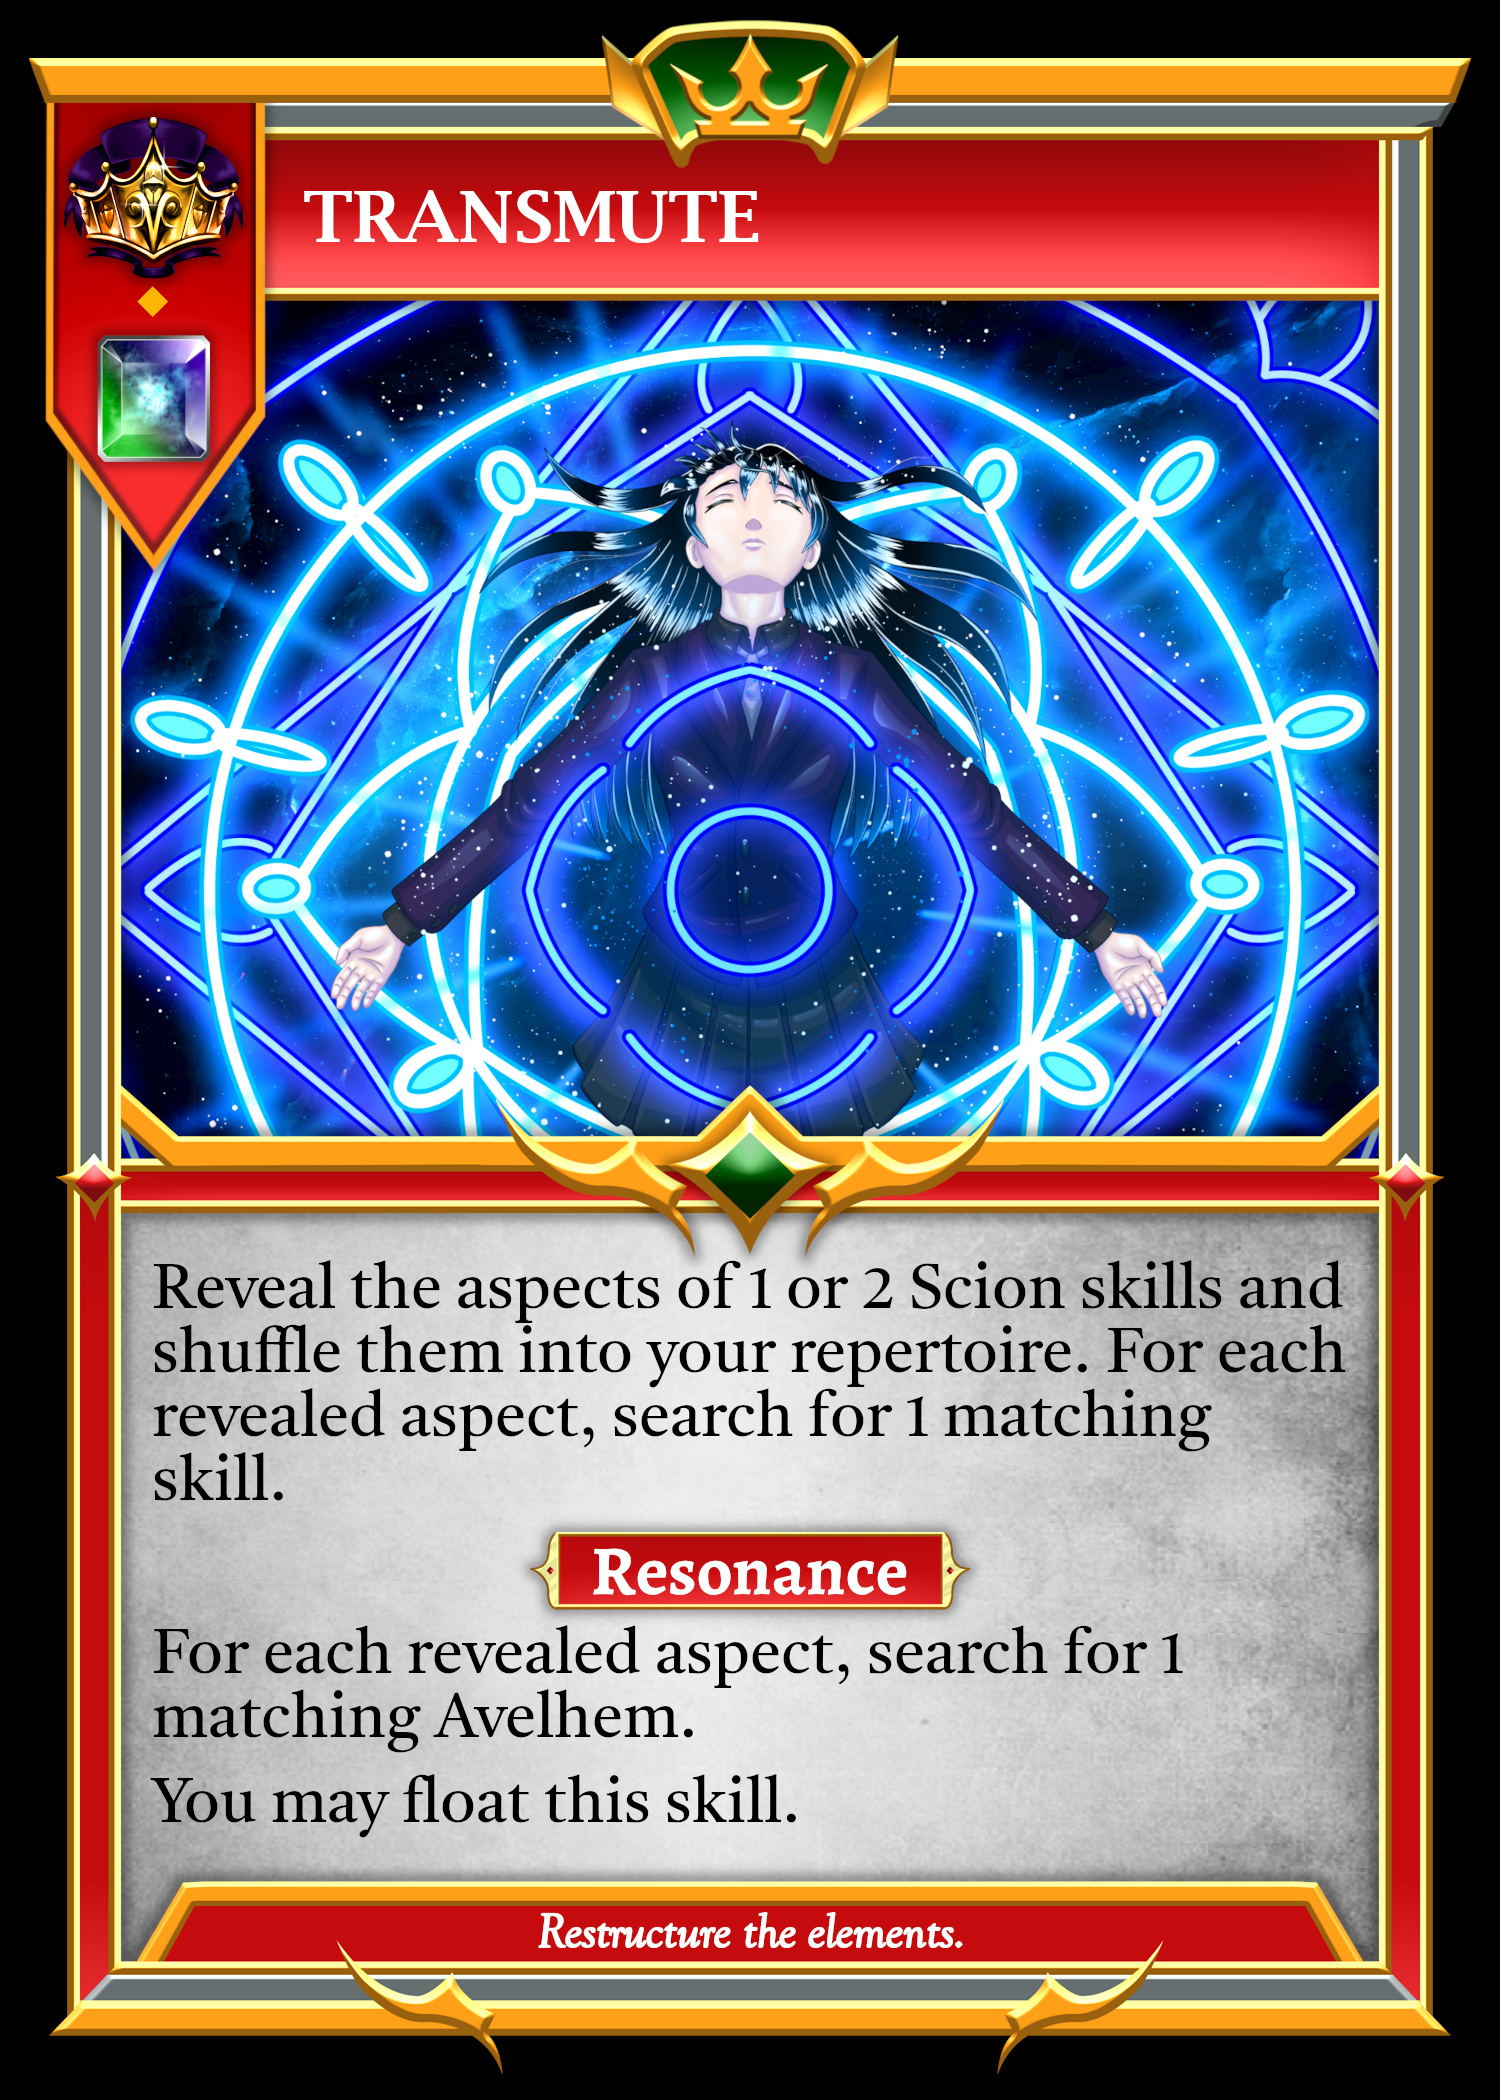
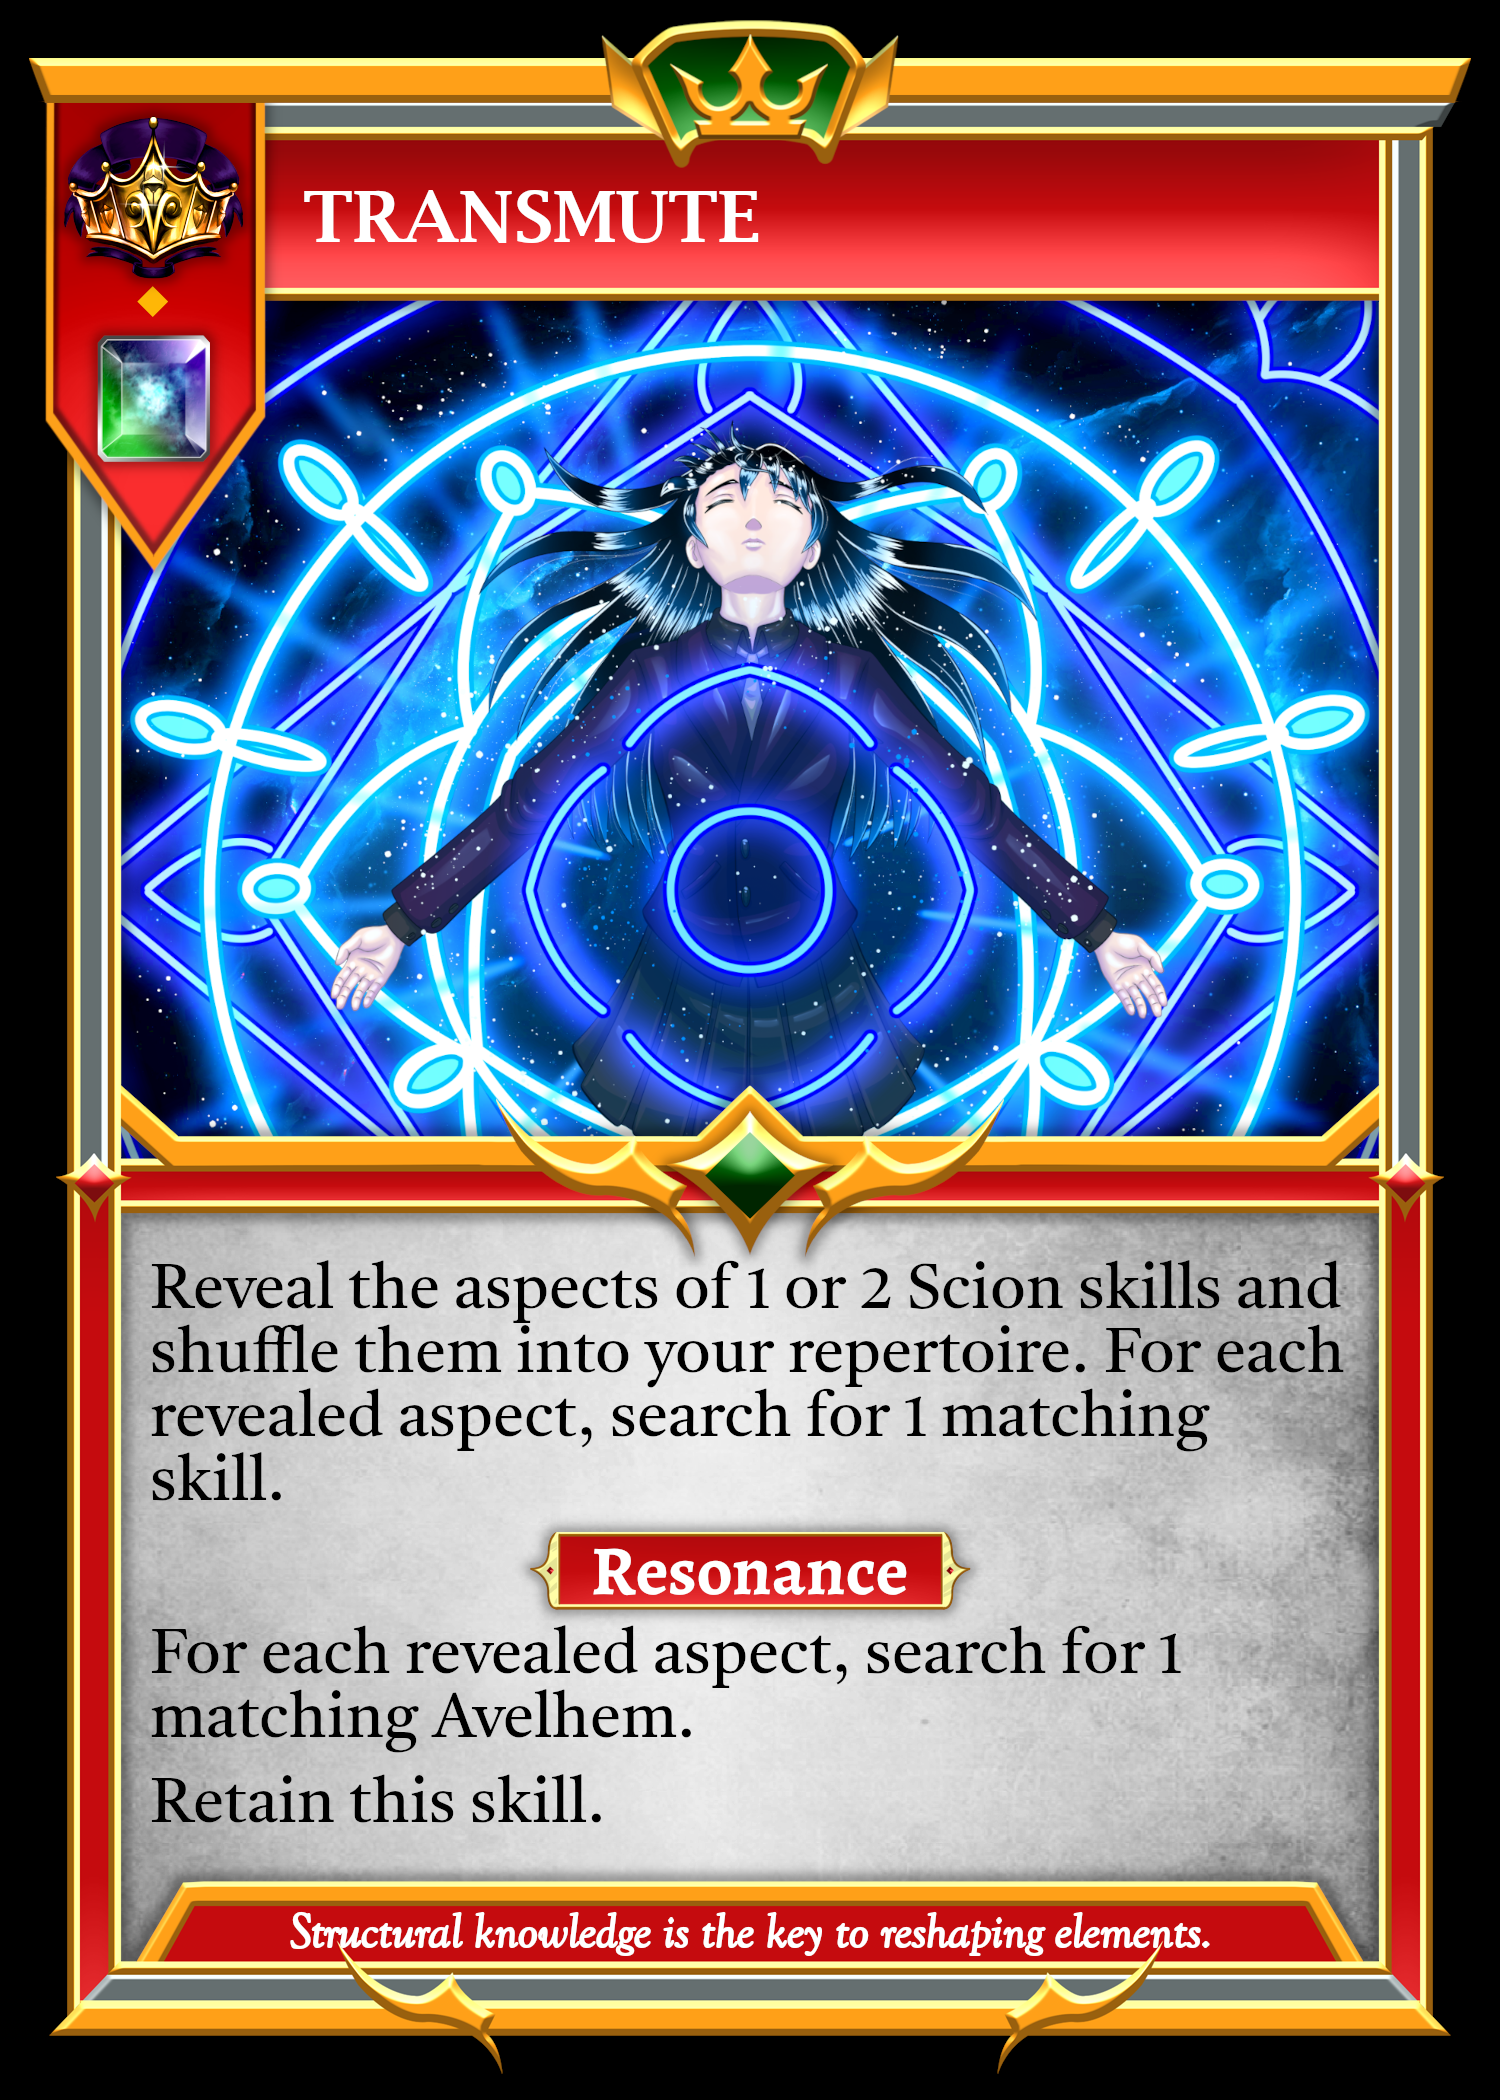
Almost done with Transmute.

diff --git a/src/components/modals/SelectSkillHandMulti.jsx b/src/components/modals/SelectSkillHandMulti.jsx
@@ -1,0 +1,200 @@
+import React from "react";
+import { useState, useEffect } from "react";
+import "./Modal.css";
+
+import { useSelector, useDispatch } from "react-redux";
+import { updateState } from "../../redux/gameState";
+import { useRecurringEffects } from "../../hooks/useRecurringEffects";
+
+import SkillMultiSelect from "../hand/SkillMultiSelect";
+
+const SelectSkillHandMulti = (props) => {
+  const { localGameState } = useSelector((state) => state.gameState);
+  const { self } = useSelector((state) => state.teams);
+  const dispatch = useDispatch();
+
+  const { avelhemToScion, getScionSet } = useRecurringEffects();
+
+  //selectedAvelhems refers to their index in the hand
+  const [selectedSkills, setSelectedSkills] = useState([]);
+
+  const skillHand = [...localGameState[self].skillHand];
+  const selectLimit = props.details.count;
+
+  let canSkip = true;
+  let skipMessage = "Skip";
+  let selectMessage = "Select";
+
+  switch (props.details.reason) {
+    case "Transmute":
+      canSkip = false;
+      selectMessage = "Shuffle";
+      break;
+
+    default:
+      break;
+  }
+
+  const canAdd = (skill) => {
+    switch (props.details.reason) {
+      case "Transmute":
+        if (skill[0] !== "S") {
+          return true;
+        }
+        break;
+
+      default:
+        return true;
+    }
+
+    return false;
+  };
+
+  const handleSelect = () => {
+    let newGameState = JSON.parse(JSON.stringify(localGameState));
+    newGameState.currentResolution.pop();
+
+    switch (props.details.reason) {
+      case "Transmute":
+        console.log(selectedSkills);
+
+        //1. get list of cards to be shuffled
+        let skillsToShuffle = [];
+        for (let i of selectedSkills) {
+          skillsToShuffle.push(skillHand[i]);
+        }
+
+        console.log(skillsToShuffle);
+
+        //2. sort selected skills in descending order so they can be spliced smoothly
+        let sortedSelectedSkills = [...selectedSkills].sort((a, b) => b - a);
+
+        console.log("sortedSelectedSkills");
+        console.log(sortedSelectedSkills);
+
+        //3. remove selected skills from hand
+        for (let i of sortedSelectedSkills) {
+          console.log(i);
+          skillHand.splice(i, 1);
+        }
+
+        console.log("skillHand");
+        console.log(skillHand);
+
+        //4. place selected skills at bottom of repertoire (start of array)
+        newGameState[self].skillRepertoire = [
+          ...skillsToShuffle,
+          ...newGameState[self].skillRepertoire,
+        ];
+
+        console.log("newGameState[self].skillRepertoire");
+        console.log(newGameState[self].skillRepertoire);
+
+        //5. if resonated, do a search for Avelhems
+        if (props.resonated === "resonated") {
+          newGameState.currentResolution.push({
+            resolution: "Sovereign Resonant Skill",
+            resolution2: "TransmuteR1",
+            player: self,
+            skillsToShuffle: skillsToShuffle,
+          });
+        }
+
+        //6. do a search for each revealed/shuffled skill
+
+        for (let skill of skillsToShuffle) {
+          const skillCode = skill.substring(0, 2);
+
+          newGameState.currentResolution.push({
+            resolution: "Search Skill",
+            player: self,
+            restriction: getScionSet(avelhemToScion(parseInt(skillCode))),
+            message: `Search for 1 ${avelhemToScion(
+              parseInt(skillCode)
+            ).replace("Scion", "Skill")}.`,
+            outcome: "Add",
+          });
+
+          console.log("restriction");
+          console.log(getScionSet(avelhemToScion(parseInt(skillCode))));
+          console.log("message");
+          console.log(
+            `Search for 1 ${avelhemToScion(parseInt(skillCode)).replace(
+              "Scion",
+              "Skill"
+            )}.`
+          );
+        }
+
+        break;
+
+      default:
+        break;
+    }
+
+    // dispatch(updateState(newGameState));
+    // props.updateFirebase(newGameState);
+  };
+
+  const handleSkip = () => {
+    let newGameState = JSON.parse(JSON.stringify(localGameState));
+    newGameState.currentResolution.pop();
+
+    dispatch(updateState(newGameState));
+    // props.updateFirebase(newGameState);
+  };
+
+  const handleViewBoard = () => {
+    props.hideOrRevealModale();
+  };
+
+  return (
+    <div className="modal-backdrop">
+      <div className="modal">
+        <div className="twoColumn">
+          <h2 className="choiceTitle">{props.details.title}</h2>
+          <button className="choiceButton" onClick={() => handleViewBoard()}>
+            View Board
+          </button>
+        </div>
+
+        <h3>{props.details.message}</h3>
+
+        <div className="fourColumn  scrollable scrollable-y-only">
+          {skillHand.map((usableSkill, i) => (
+            <div
+              key={i}
+              className={`scionSkills ${
+                selectedSkills.includes(i) ? "selectedSkill" : ""
+              }`}
+            >
+              <SkillMultiSelect
+                i={i}
+                usableSkill={usableSkill}
+                canAdd={canAdd(usableSkill)}
+                // canAdd={true}
+                selectedSkills={selectedSkills}
+                setSelectedSkills={setSelectedSkills}
+                addLimit={selectLimit}
+              />
+            </div>
+          ))}
+        </div>
+
+        {canSkip && selectedSkills.length === 0 && (
+          <button className="choiceButton noYes" onClick={() => handleSkip()}>
+            {skipMessage}
+          </button>
+        )}
+
+        {selectedSkills.length > 0 && (
+          <button className="choiceButton noYes" onClick={() => handleSelect()}>
+            {selectMessage}
+          </button>
+        )}
+      </div>
+    </div>
+  );
+};
+
+export default SelectSkillHandMulti;

diff --git a/src/components/Board.jsx b/src/components/Board.jsx
@@ -34,6 +34,7 @@ import SelectSkillResonator from "./modals/SelectSkillResonator";
 import SelectAvelhemHandMulti from "./modals/SelectAvelhemHandMulti";
 import SelectAvelhemResonator from "./modals/SelectAvelhemResonator";
 import SelectSkillDiscard from "./modals/SelectSkillDiscard";
+import SelectSkillHandMulti from "./modals/SelectSkillHandMulti";
 import SelectSkillFloat from "./modals/SelectSkillFloat";
 import SelectSkillReveal from "./modals/SelectSkillReveal";
 import TacticResults from "./modals/TacticResults";
@@ -222,6 +223,7 @@ const Board = (props) => {
     foreshadow1,
     foreshadow2,
     darkHalo1,
+    transmute1,
     ambidexterity1,
     ambidexterityR1,
     providence1,
@@ -3141,6 +3143,33 @@ const Board = (props) => {
 
       case "Sovereign Resonant Skill":
         switch (lastResolution.resolution2) {
+          case "Activating Transmute":
+            return (
+              <>
+                {self === lastResolution.player && (
+                  <>
+                    {resolutionUpdateGameStateOnly(
+                      transmute1(lastResolution.resonator)
+                    )}
+                  </>
+                )}
+              </>
+            );
+
+          case "Transmute1":
+            return (
+              <>
+                {self === lastResolution.player && !hideModal && (
+                  <SelectSkillHandMulti
+                    resonated={lastResolution.resonated}
+                    details={lastResolution.details}
+                    updateFirebase={updateFirebase}
+                    hideOrRevealModale={hideOrRevealModale}
+                  />
+                )}
+              </>
+            );
+
           case "Activating Ambidexterity":
             return (
               <>

diff --git a/src/hooks/useSovereignSkillEffects.jsx b/src/hooks/useSovereignSkillEffects.jsx
@@ -241,6 +241,29 @@ export const useSovereignSkillEffects = () => {
     return newGameState;
   };
 
+  const transmute1 = (resonator) => {
+    let newGameState = JSON.parse(JSON.stringify(localGameState));
+
+    //end "Activating Transmute" resolution
+    newGameState.currentResolution.pop();
+
+    newGameState.currentResolution.push({
+      resolution: "Sovereign Resonant Skill",
+      resolution2: "Transmute1",
+      player: self,
+      resonated: resonator ? "resonated" : null,
+      details: {
+        reason: "Transmute",
+        title: "Transmute",
+        message:
+          "Reveal the aspects of 1 or 2 Scions skills and shuffle them into your repertoire. For each revealed aspect, search for 1 matching skill.",
+        count: 2,
+      },
+    });
+
+    return newGameState;
+  };
+
   const ambidexterity1 = (resonator) => {
     let newGameState = JSON.parse(JSON.stringify(localGameState));
 
@@ -681,6 +704,7 @@ export const useSovereignSkillEffects = () => {
     reminiscence1,
     foreshadow1,
     foreshadow2,
+    transmute1,
     ambidexterity1,
     ambidexterityR1,
     providence1,

diff --git a/src/hooks/useRecurringEffects.jsx b/src/hooks/useRecurringEffects.jsx
@@ -1477,6 +1477,14 @@ export const useRecurringEffects = () => {
           "Activating Foreshadow"
         );
 
+      case "SB-01":
+        return activateTemplate(
+          newGameState,
+          skill,
+          "Sovereign Resonant Skill",
+          "Activating Transmute"
+        );
+
       case "SB-02":
         return activateTemplate(
           newGameState,
@@ -1591,6 +1599,16 @@ export const useRecurringEffects = () => {
     };
 
     switch (skill) {
+      case "SB-01":
+        return activateResonanceTemplate(
+          newGameState,
+          skill,
+          "Sovereign Resonant Skill",
+          "Activating Transmute",
+          resonator,
+          "retain"
+        );
+
       case "SB-02":
         return activateResonanceTemplate(
           newGameState,

diff --git a/src/components/Tile.css b/src/components/Tile.css
@@ -2,15 +2,17 @@
     width: 70px;
     height: 70px;
     /* background-color: bisque; */
-    background-color: rgb(235, 250, 255);
+    /* background-color: rgb(235, 250, 255); */
+    background-color: rgb(235, 244, 255);
     display: flex;
     justify-content: center;
     align-items: center;
     user-select: none;
+    box-shadow: 0 0 8px rgba(0, 0, 0, 1);
 }
 
 .selectable  .tile {
-    background-color: rgb(102, 149, 248);
+    background-color: rgb(83, 137, 253);
 
 }
 

diff --git a/src/components/modals/SelectAvelhemHandMulti.jsx b/src/components/modals/SelectAvelhemHandMulti.jsx
@@ -18,7 +18,7 @@ const SelectAvelhemHandMulti = (props) => {
   //selectedAvelhems refers to their index in the hand
   const [selectedAvelhems, setSelectedAvelhems] = useState([]);
 
-  const avelhemHand = localGameState[self].avelhemHand;
+  const avelhemHand = [...localGameState[self].avelhemHand];
   const selectLimit = props.details.count;
 
   let skipMessage = "Skip";
